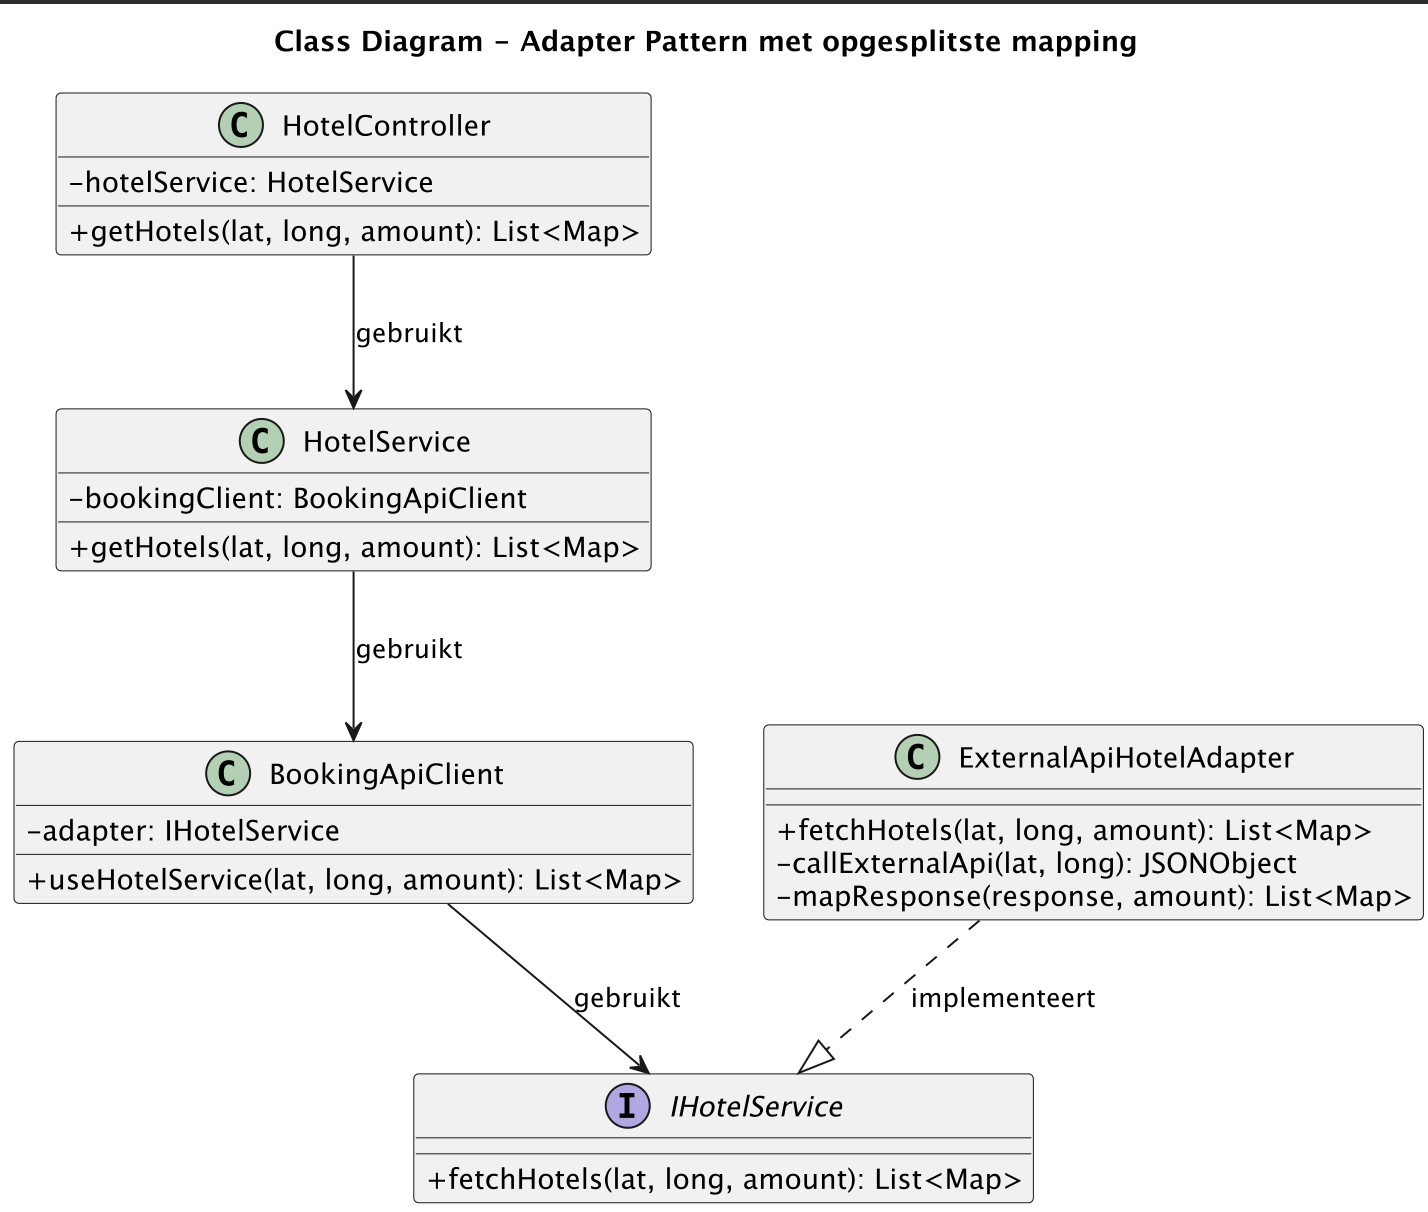
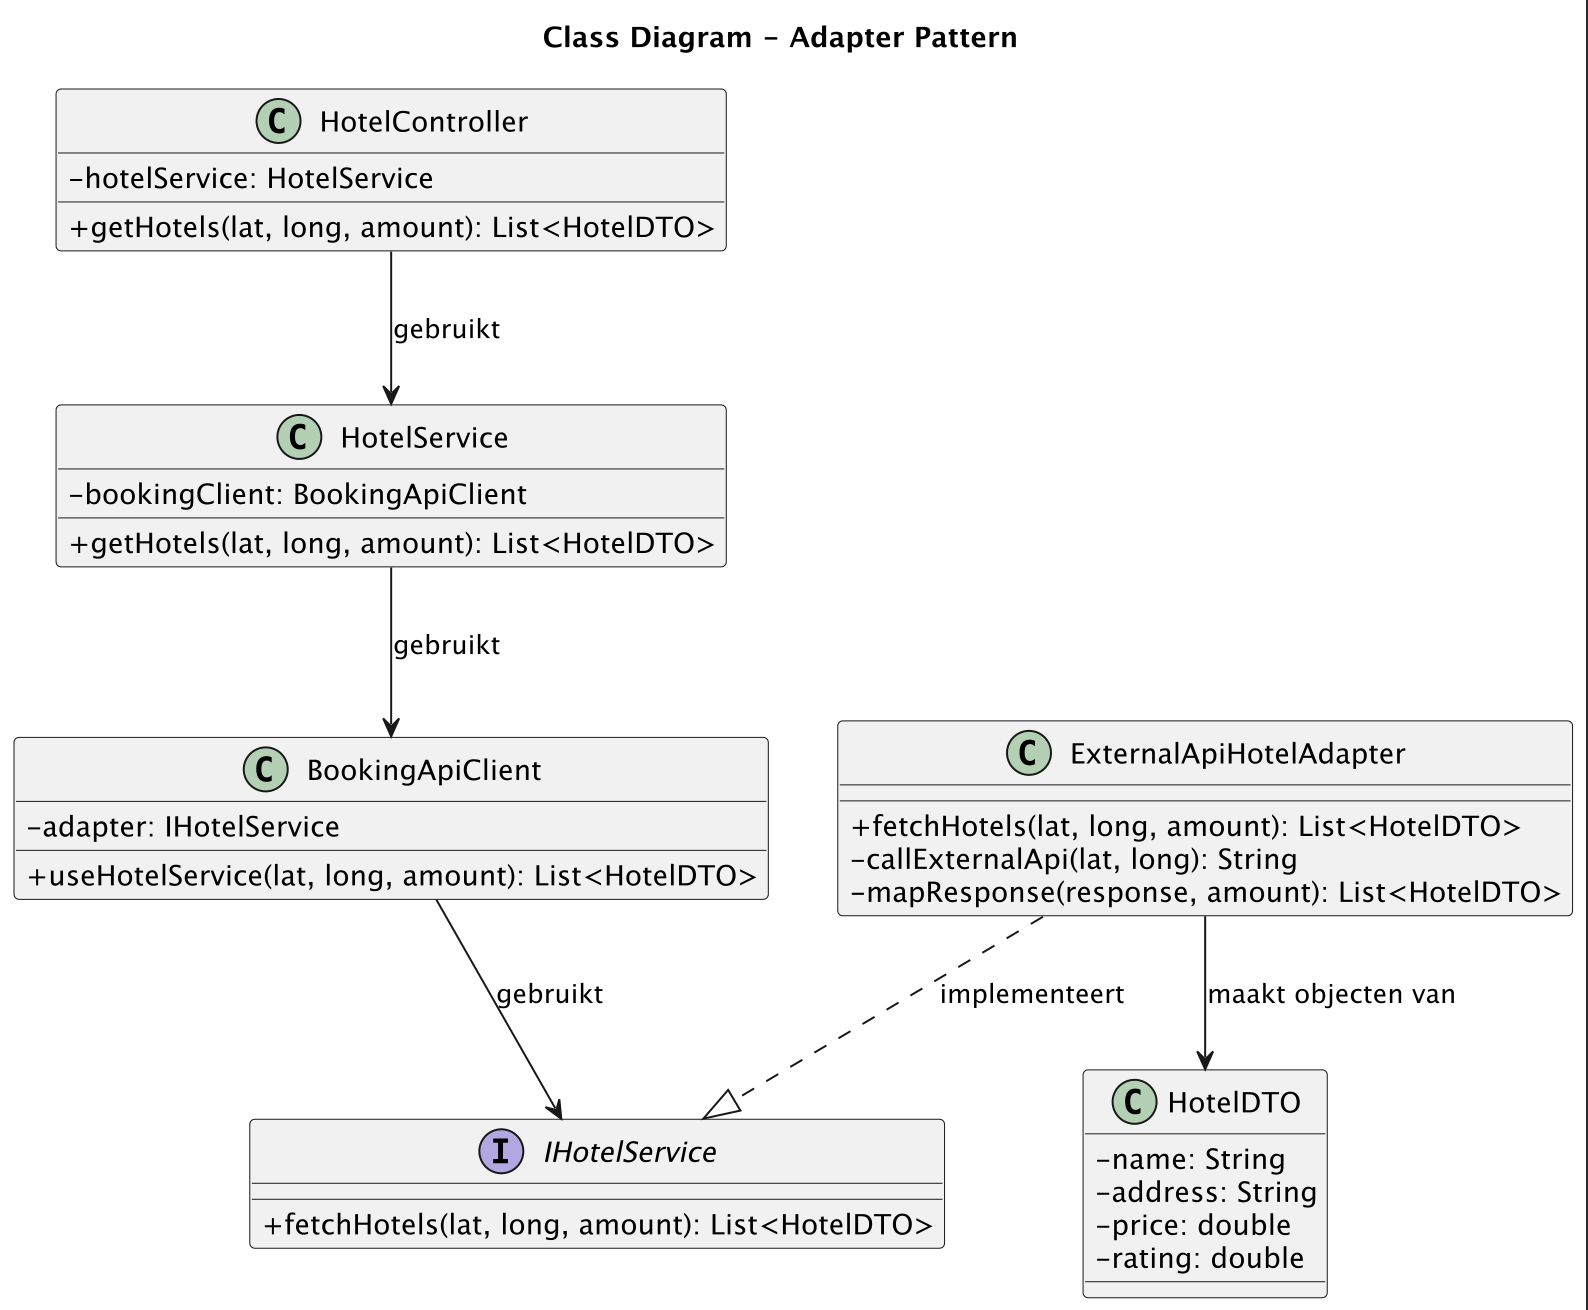
nieuwe diagrammen ingevoegd

diff --git a/software-guidebook/README.md b/software-guidebook/README.md
@@ -150,10 +150,22 @@ Hierbij staat de verbinding tussen de backend en de verschillende externe APIs v
 
 
 #### Component Diagram beschermen tegen externe API's
+![AdapterPatternTrenComponentDiagram.png](AdapterPatternTrenComponentDiagram.png)
 
+Aan de achterkant zorgt de HotelService ervoor dat de logica wordt afgehandeld. Deze service schakelt de BookingApiClient in, die via de interface IHotelService communiceert met een adapter (ExternalApiHotelAdapter).
+
+De adapter maakt een HTTP-aanroep naar de externe Booking.com API en zet de response om naar een interne representatie (HotelDTO). Deze losgekoppelde structuur voorkomt dat wijzigingen in de externe API impact hebben op de rest van de applicatie.
 #### Dynamic Diagram beschermen tegen externe API's
+![AdapterPatternTrenDynamicComponentDiagram.png](AdapterPatternTrenDynamicComponentDiagram.png)
+Dit diagram toont de flow van een hotelzoekopdracht in de applicatie.
+1.	De gebruiker stuurt een HTTP GET-verzoek naar /hotels.
+2.	De HotelController stuurt de parameters door naar de HotelService.
+3.	De HotelService schakelt de BookingApiClient in voor communicatie met de adapter.
+4.	De BookingApiClient gebruikt de ExternalApiHotelAdapter om een API-aanroep te doen naar Booking.com.
+5.	De adapter haalt de externe JSON-response op en zet deze om naar een interne HotelDTO.
+6.	De lijst van HotelDTO’s wordt via de lagen teruggestuurd naar de gebruiker als JSON.
 
-#### Sequence Diagram beschermen tegen externe API's
+
 
 #### Component Diagram States
 ![img_6.png](img_6.png)
